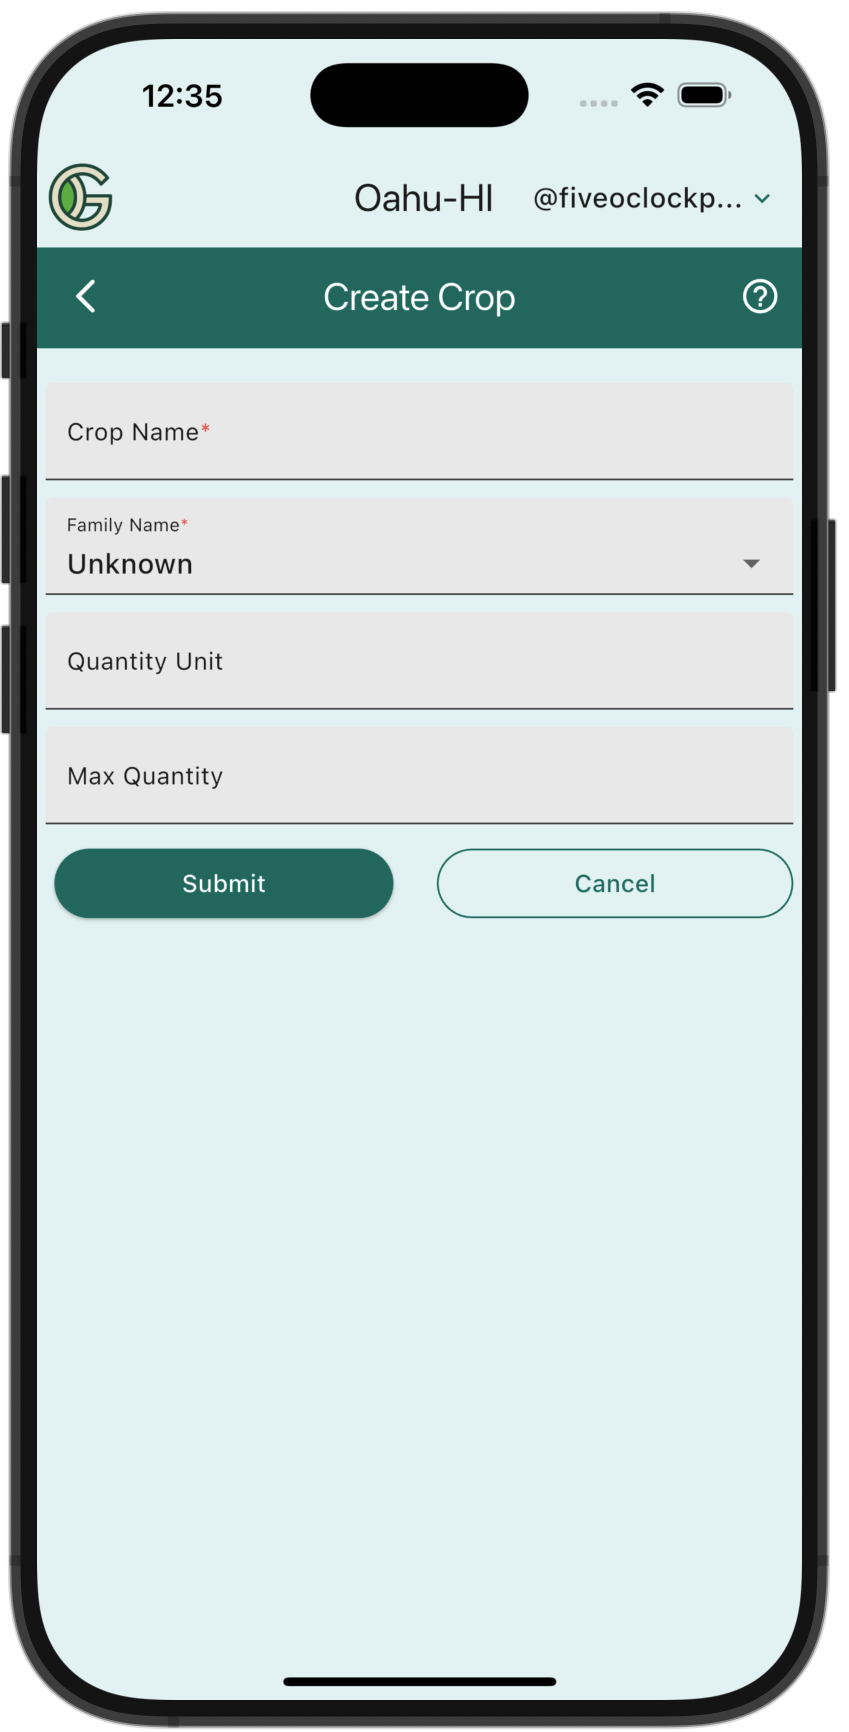
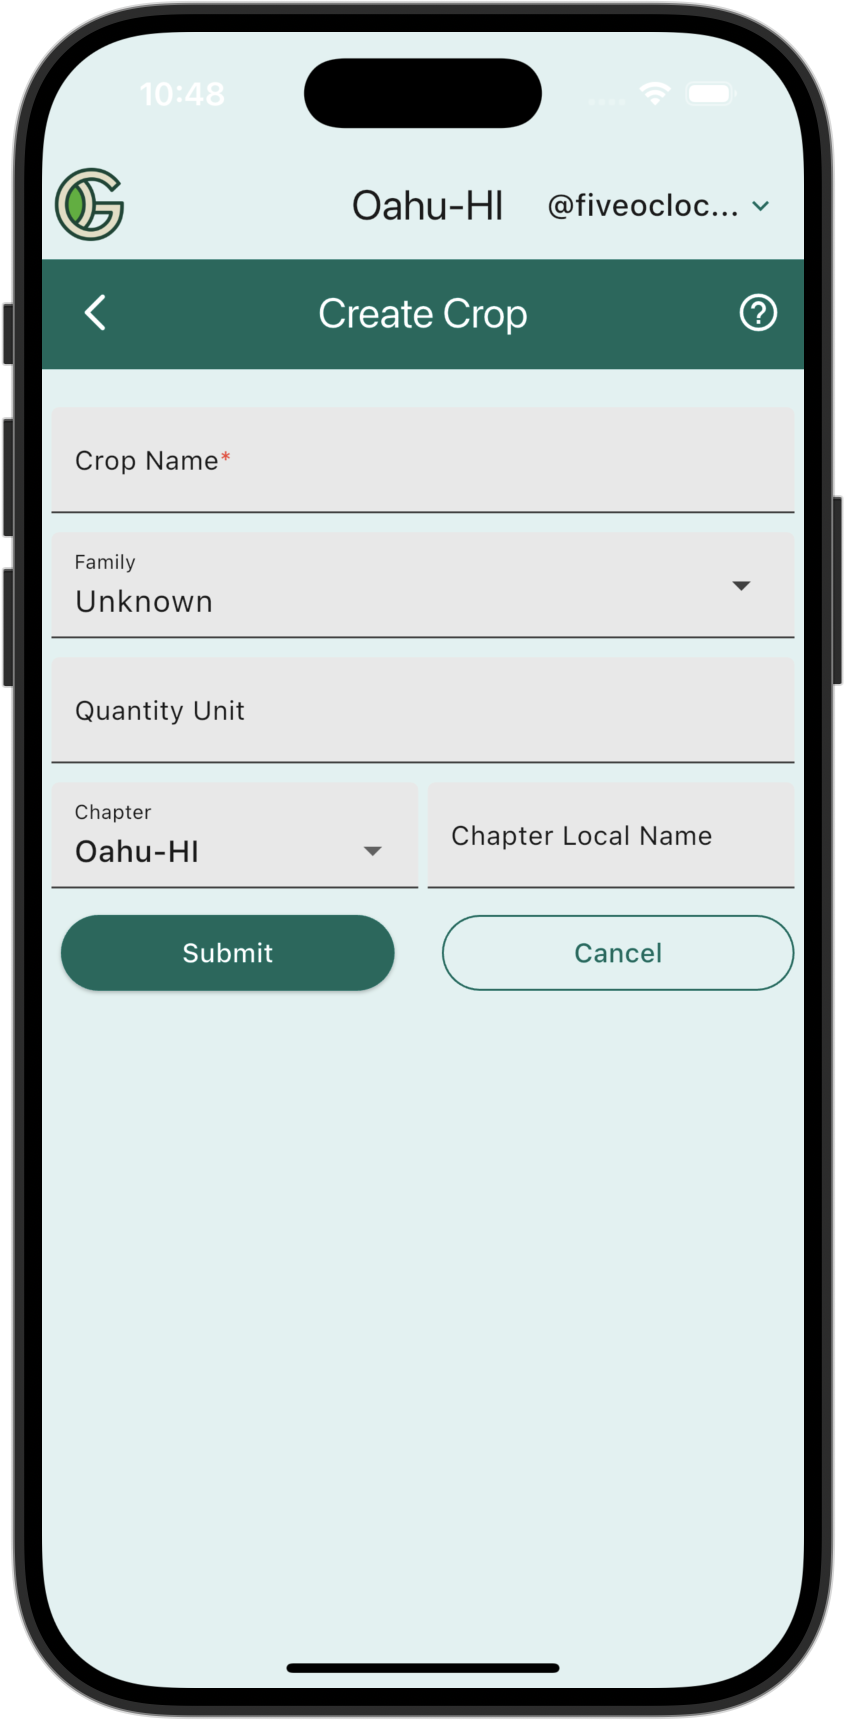
Updates to crop create and announcement bar

Changed region(s): [[0.0, 0.0, 1.0, 1.0], [0.3369, 0.9541, 0.6737, 0.9849], [0.8575, 0.3386, 0.8881, 0.3693]]

diff --git a/src/components/LandingPanel10/index.js b/src/components/LandingPanel10/index.js
@@ -9,13 +9,13 @@ export default function LandingPanel10() {
                 <div className="col">
                     <div className="text--center">
                         <div className='wrapper'>
-                            <ReactPlayer className='player' url="https://www.youtube.com/watch?v=nQuRtGop7ig" width="100%" height="100%" ></ReactPlayer>
+                            <ReactPlayer className='player' url="https://www.youtube.com/watch?v=jjgKgygZyUk" width="100%" height="100%" ></ReactPlayer>
                         </div>
                     </div>
                 </div>
                 <div className="col" style={{paddingLeft: '100px', alignItems: 'center', display: 'flex'}}>
                     <div className="text--center">
-                        <h1 className="hero__title">Watch this 5 minute intro.</h1>
+                        <h1 className="hero__title">Watch this to learn how GeoGardenClub helps you grow and share your harvest</h1>
                         <h1 className="hero__subtitle">Or check out our user guide for comprehensive information about the app.  </h1>
                         <Button style={{marginBottom: '2em', marginTop: '1em'}} size='lg' variant="success" label="User Guide"
                                 link="/docs/user-guide/overview"/>

diff --git a/docusaurus.config.js b/docusaurus.config.js
@@ -72,9 +72,9 @@ const config = {
           {name: 'description', content: 'GeoGardenClub is an easy to use garden planning tool that allows local communities of gardeners to share information and improve their gardening skill.'},
         ],
         announcementBar: {
-          id: 'innovate-bellingham',
+          id: 'Release-2.20',
           content:
-              '<h3 style="margin-top: 15px"> &#128226; Join us at Innovate Bellingham on May 7. Click <a target="_blank" rel="noopener noreferrer" href="/news/2025/05/07/innovate-bellingham">here</a> for details.</h3>',
+              '<h3 style="margin-top: 15px"> &#128226; Release 2.20.0 now available.  Click <a target="_blank" rel="noopener noreferrer" href="/news/2025/05/10/release">here</a> for details.</h3>',
           backgroundColor: '#02695c',
           textColor: 'white',
           isCloseable: false,

diff --git a/sidebars.js b/sidebars.js
@@ -81,6 +81,11 @@ const sidebars = {
       items: [
         {
           type: 'link',
+          label: 'April 2025',
+          href: 'https://docs.google.com/document/d/1IwCf6fvT_NJnMSW1TxJ7lQJFCXyfXusoq9IbDTziMf8/edit?usp=sharing',
+        },
+        {
+          type: 'link',
           label: 'March 2025',
           href: 'https://docs.google.com/document/d/1yLiiYTDcJsEFNh_BVZTMfb29lsb2yqZLwG4MxLIsIC4/edit?usp=sharing',
         },
@@ -147,6 +152,7 @@ const sidebars = {
     'develop/data-model',
     'develop/database-management',
     'develop/deployment',
+    'develop/screenshots',
     'develop/backups',
     'develop/scripts',
     'develop/privacy',

diff --git a/docs/develop/screenshots.md b/docs/develop/screenshots.md
@@ -1,0 +1,61 @@
+---
+hide_table_of_contents: true
+# sidebar_label: "Welcome"
+---
+
+# Screenshots
+
+This page provides resources for how to design the screenshots to be uploaded to the App and Play stores to advertise the app.
+
+## Workflow
+
+There are three parts to screenshot generation for the App and Play Stores:
+
+1. Capture the raw screenshots. We can do this manually (for now) but in the future could use a tool to automate it such as [Fastlane](https://docs.fastlane.tools/actions/capture_screenshots/).
+2. Edit and frame the screenshots.  Use a generic tool like Canva with supporting resources ([Apple templates](https://developer.apple.com/design/resources/)), or pay $25 for a service like [AppScreens](https://appscreens.com/) (Note that I don't think their "free" plan actually enables you to produce screenshots that can be uploaded to the App Store. That said, it might be worth it, I dunno.)
+3. Upload to App and Play Stores.  We will do this manually for now, since we are manually uploading new releases (for now).
+
+## Design guidelines
+
+### Tell a story
+
+* What problem does my app solve?
+* What benefits does it offer?
+* What is the main user journey?
+
+For example:
+
+<img src="/img/develop/screenshots/tell-a-story.png"/>
+
+### Increase text size
+
+Try this:
+
+```
+iOS: Go to Settings > Accessibility > Display & Text Size > Larger Text
+```
+
+Check to see if this breaks the UI! If so, we need to fix it.
+
+### Test data
+
+Create a dedicated test account with carefully curated content for screenshots. This guarantees consistency and avoids exposing sensitive information.
+
+We should use the test environment, not the production environment, to generate screenshots. This may mean adjustments to the test database to ensure we can illustrate all the features we want in our screenshots.
+
+### Social proof
+
+Feature awards, accreditations, and other achievements in your screenshots.
+
+Related to this is our current lack of reviews, which is a negative form of social proof.  This might be a significan reason for the low "conversion" of app store page views to actual downloads. We don't look "mature" yet.
+
+
+
+## Resources
+
+* [Product Page Guidelines (Apple)](https://developer.apple.com/app-store/product-page/)
+* [2024 screenshot sizes and guidelines (App Radar)](https://appradar.com/blog/ios-app-screenshot-sizes-and-guidelines-for-the-apple-app-store)
+* [Best Practices (Adapty)](https://adapty.io/blog/app-store-screenshots-optimization/)
+* [Best Practices (Sonmo)](https://www.sommo.io/blog/app-screenshots-for-the-apple-app-store-sizes-requirements-best-practices)
+* [Screenshot Specifications (Apple)](https://developer.apple.com/help/app-store-connect/reference/screenshot-specifications/)
+* 

diff --git a/docs/user-guide/crops.md b/docs/user-guide/crops.md
@@ -20,14 +20,32 @@ Use the pulldown menu to quickly access a specific Crop rather than scrolling. T
 ## Create a Crop
 
 :::warning Please avoid duplication
-Please check carefully to see that your Crop is not already defined. Some Crops are known by more than one name: Corn (Maize), Squash (Pumpkin), Yam (Sweet Potato), Bok Choy (Pak Choi)
+Before creating a new Crop, please check carefully to see that your Crop is not already defined. Some issues to be aware of: 
+
+* Some crops have more than one name. For example: Corn and Maize.
+* Some crops have a Chapter-local name. For example: Breadfruit is listed as 'Ulu in the Hawaii chapters.
+* Zucchini is its own Crop (not a Variety of Summer Squash).
+* Pumpkin is its own Crop (not a Variety of Winter Squash).
 :::
 
 There are two ways to add a Crop.  First, when you are adding a Planting, you can add a Crop from the Add Planting form. See the [Add Planting documentation](plantings.md#create-a-planting) for details.
 
-The second way is from the Crop Index screen. Tap the "+ Crop" button to bring up the Create Crop screen:
+The second way is from the Crop Index screen. Tap the "+ Crop" button.
+
+Whichever way you do it, the result is the Create Crop screen:
 
 <img width="300" src="/img/user-guide/crops-create.png"/>
+
+**Crop Name**. Crop names must be unique. Please capitalize the crop name. We prefer the Crop name to be the "common" name.
+
+**Family**. Select the Family associated with this Crop.  If you don't know the Family, you can select "Unknown".
+
+**Quantity Unit**. This is a text string that indicates how quantities of this crop are typically represented.  The most common units are "lbs" or "pieces".
+
+**Chapter**. This defaults to your Chapter.
+
+**Chapter Local Name**.  Provide a value for this field only if your Chapter typically refers to a Crop by something other than its common name. For example, in Hawaii Chapters, "Breadfruit" is known as "'Ulu".  Leave this blank if your Chapter uses the common name. 
+
 
 
 ## Update/Delete Crops

diff --git a/docs/user-guide/faq.md b/docs/user-guide/faq.md
@@ -68,6 +68,14 @@ You can also create Observations for that Planting to provide further data about
 
 To easily create a new Planting for the next year, just tap the "Copy Planting" icon in the Navbar.  This will create a new Planting with fields initialized from the current Planting.
 
+## How do I represent my orchard with 12 fruit trees?
+
+One good approach is to first establish an "identifier" for each tree. For example, you give each tree a number from 1 to 12, or a letter from A to L, or (if you're into anthropomorphism) a name like Fred or Suzy. 
+
+Now that you have identifiers, create 12 Beds using them as the bed name. Each bed will have a single Planting per year (following the recommendation above for perennials) that you can use to record information about the tree (for example, when fruit appears, how long the harvest lasts, and the quantity of harvest from the tree).  
+
+You can also make Observations for the current Planting associated with a tree, and by filtering the Observations by Bed, you can see all the Observations for a single tree over multiple seasons. 
+
 ## How do I manage gardens in multiple chapters?
 
 Sometimes you'll want to be part of two (or more) gardens that are located in different chapters. Let's say your home garden is in the Whatcom-WA chapter, but you want to participate in the management of a friend's garden located in the Skagit-WA chapter.  

diff --git a/blog/2025-05-10-release.md b/blog/2025-05-10-release.md
@@ -1,0 +1,22 @@
+---
+title: 2.20.0 Release
+authors: philip
+hide_table_of_contents: true
+tags:
+  - Releases
+---
+
+## In this release:
+
+Added:
+* Added in app review feature.
+* New chapters for the 5 burroughs of NYC.
+* Chapter-local crop names.
+
+Fixed:
+* Fixed Bed Chip background color.
+* Migrated Winter Squash pumpkin varieties to Pumpkin crop varieties.
+* Improved Retail Value calculations.
+* Fixed chapter and garden images.
+
+To get the app, see the [Getting Started page](/docs/user-guide/get-started/overview).
